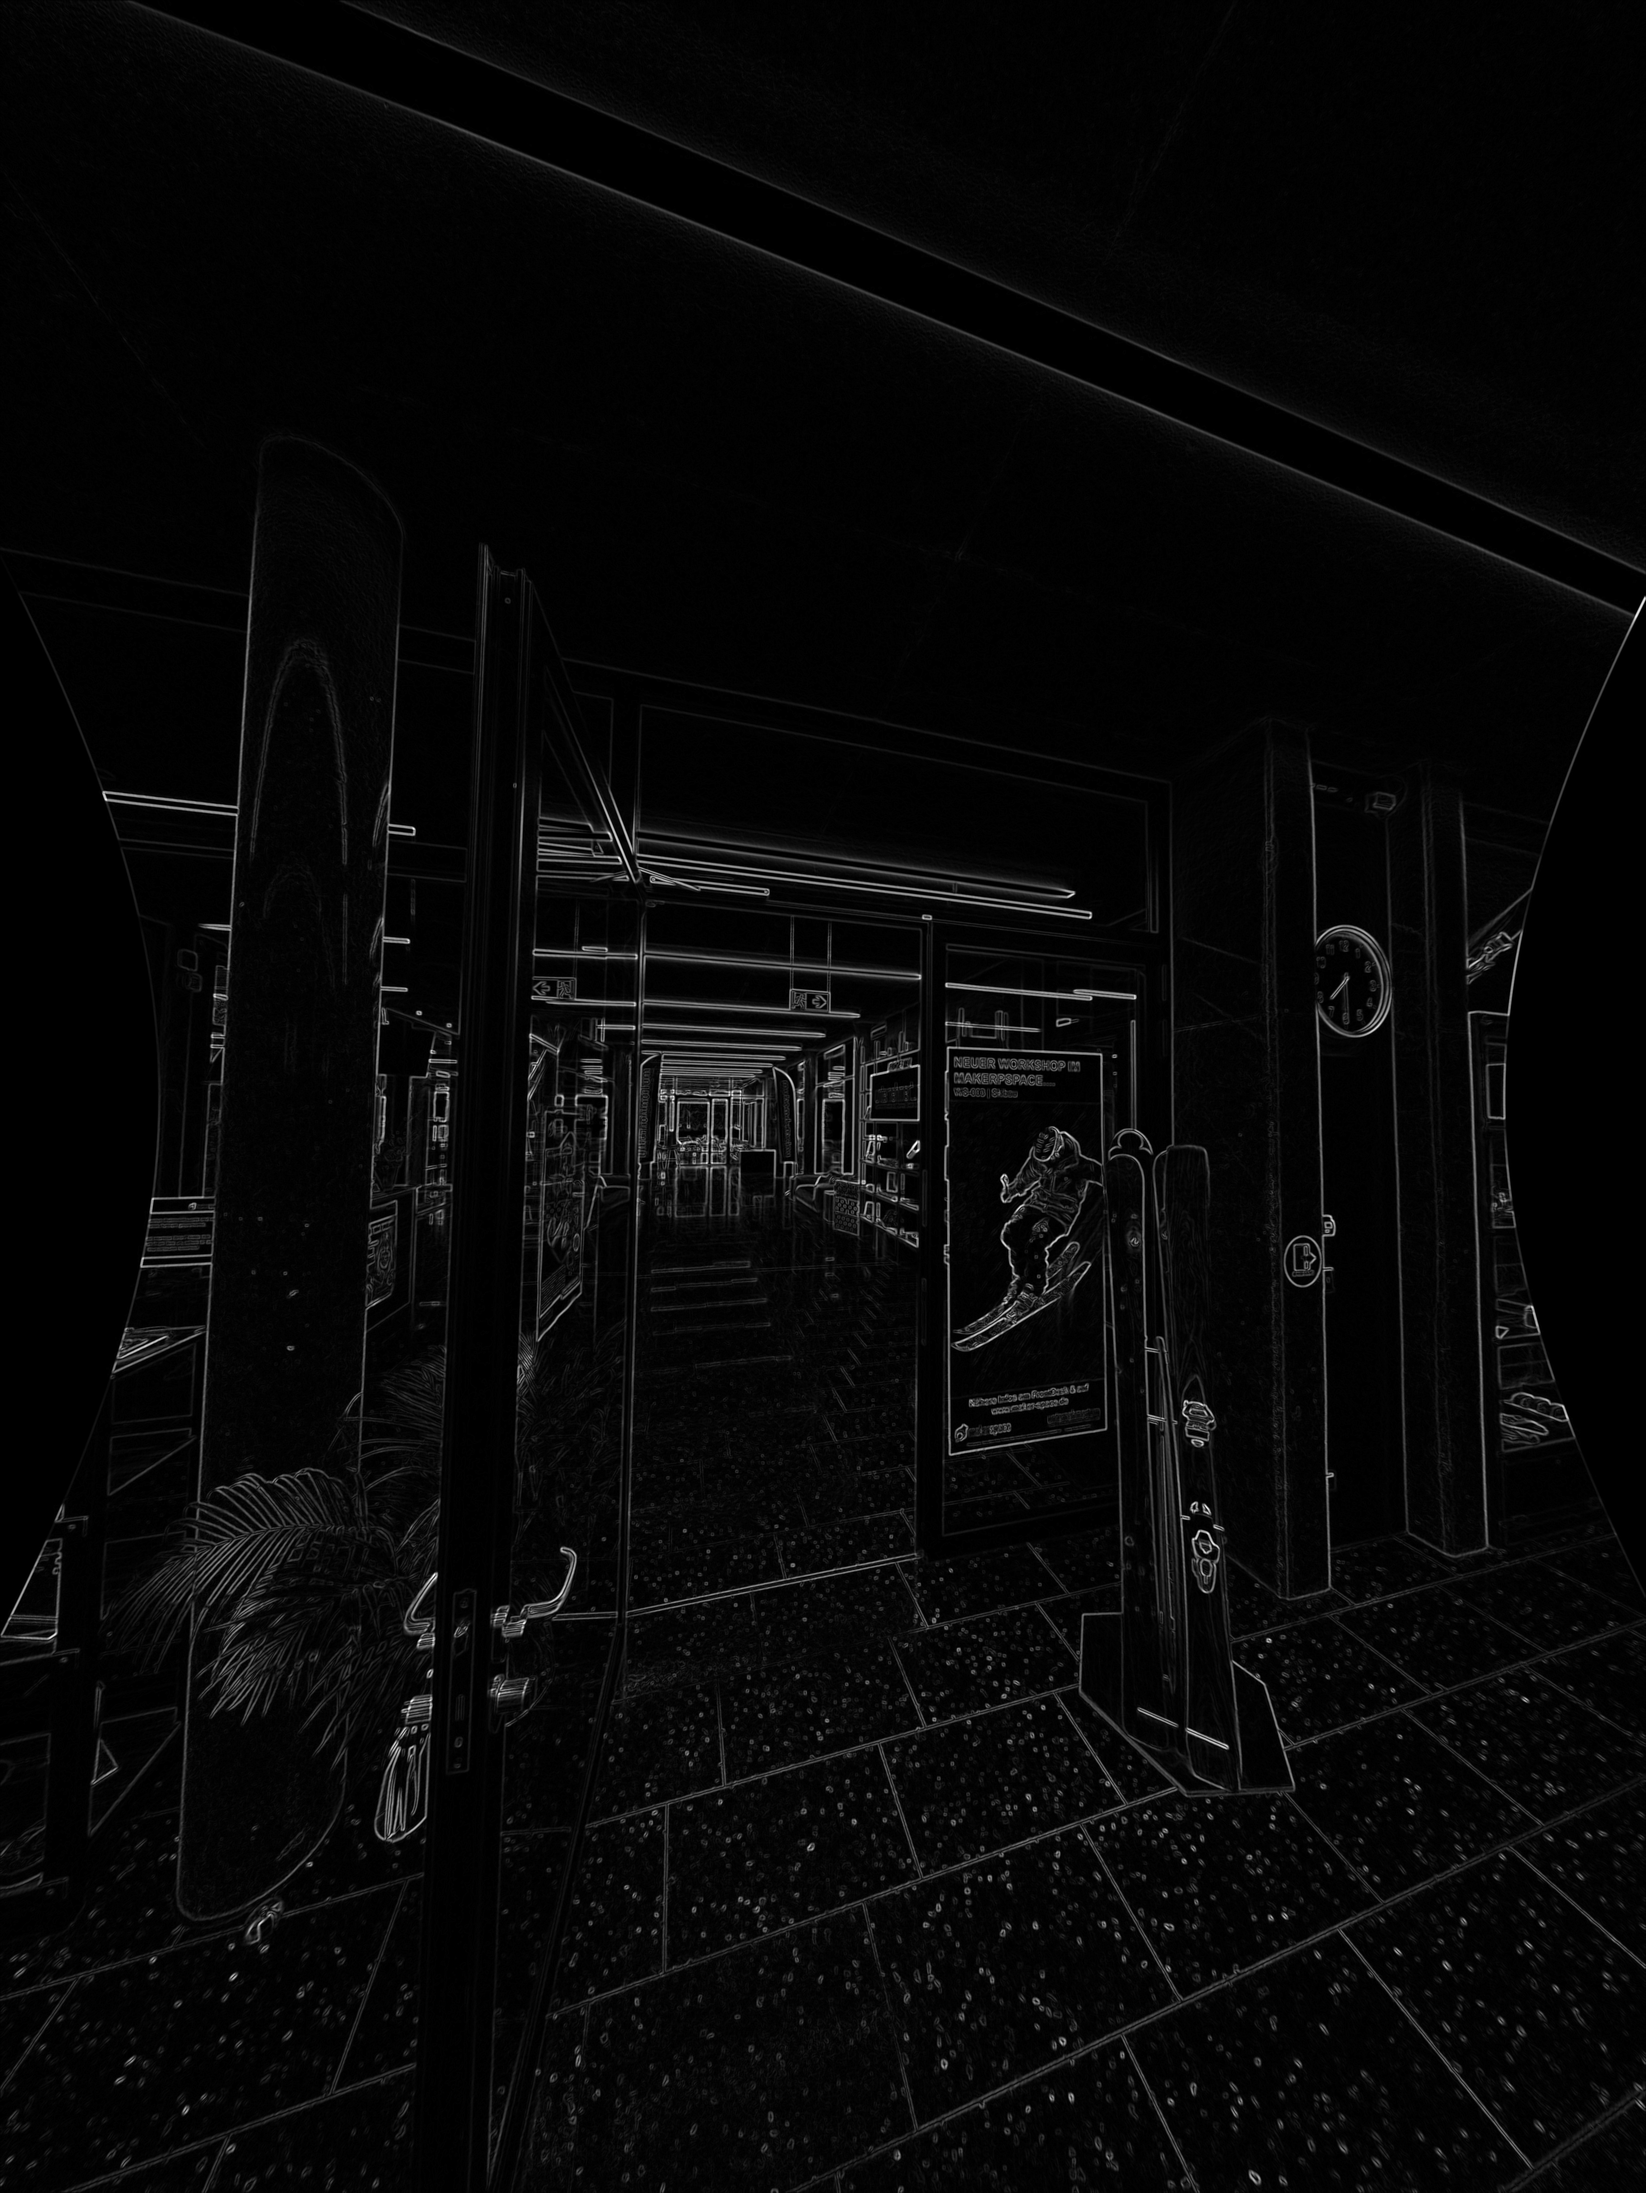
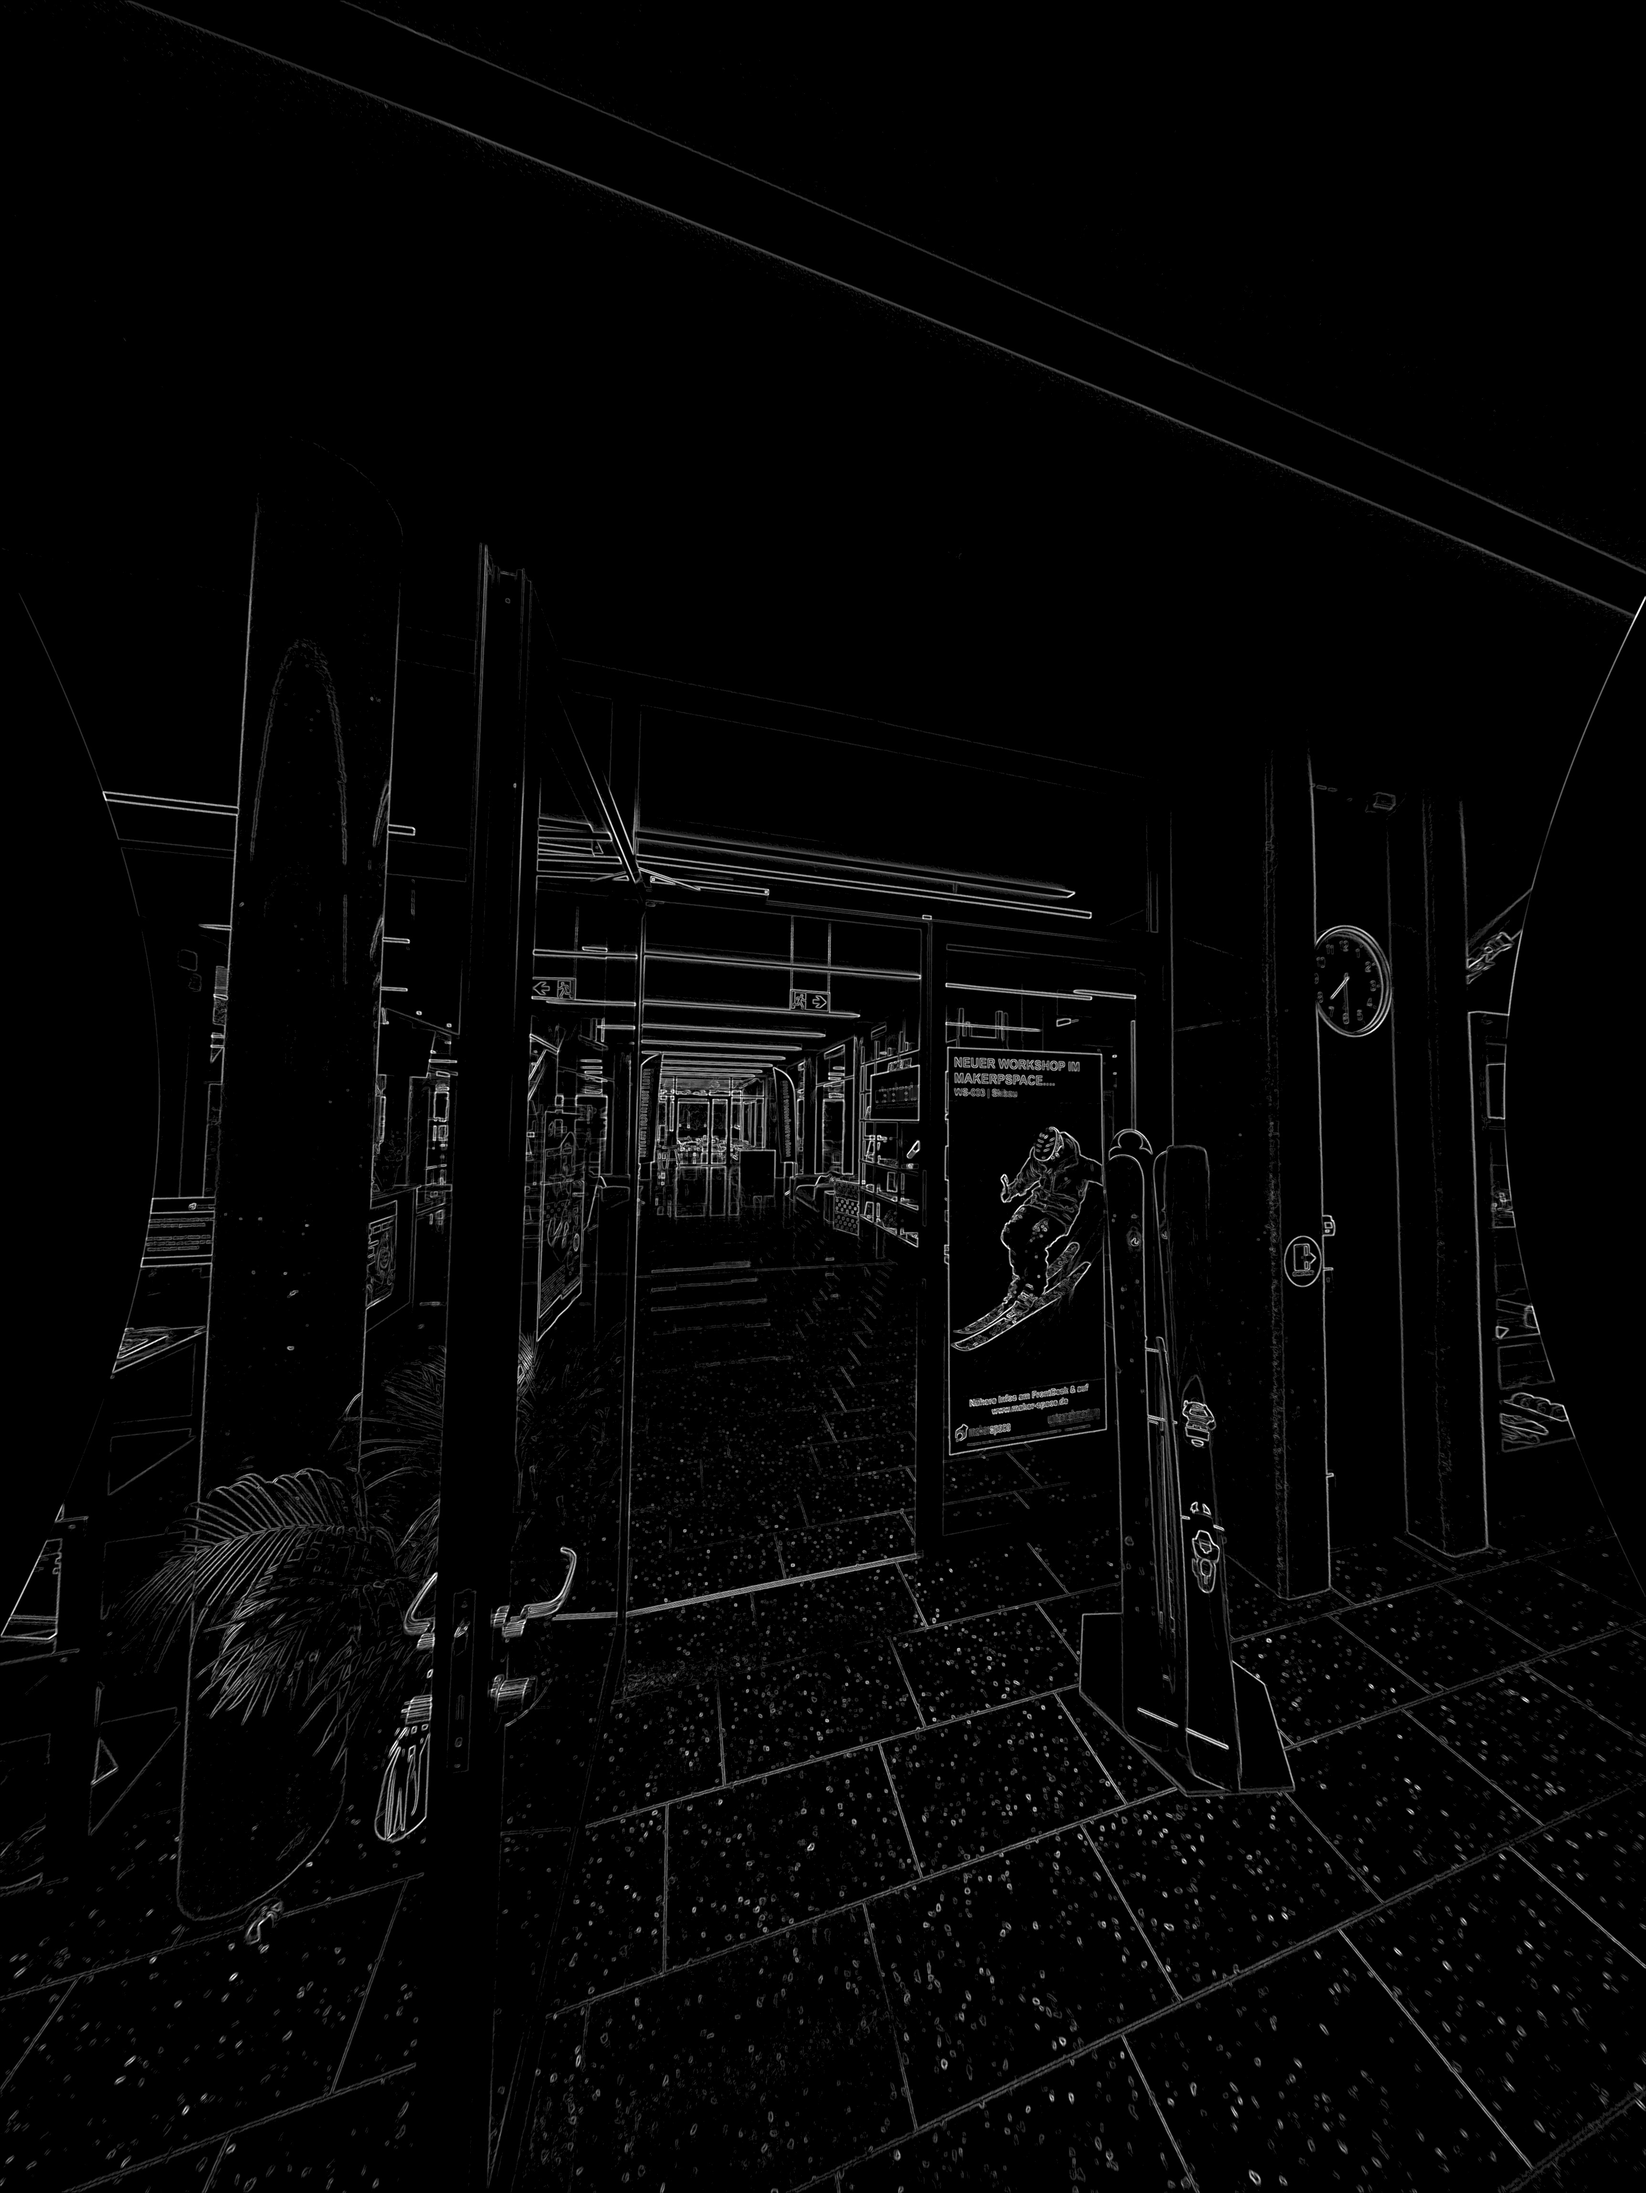
Code Segmentation Sobel / Hough

diff --git a/src/segmentationtexture/Texture.java b/src/segmentationtexture/Texture.java
@@ -1,0 +1,165 @@
+/*
+ * To change this license header, choose License Headers in Project Properties.
+ * To change this template file, choose Tools | Templates
+ * and open the template in the editor.
+ */
+package segmentationtexture;
+
+
+import org.bytedeco.javacpp.opencv_core;
+
+import static org.bytedeco.javacpp.opencv_core.CV_16S;
+import static org.bytedeco.javacpp.opencv_imgproc.Sobel;
+import static org.bytedeco.javacpp.opencv_highgui.waitKey;
+import static org.bytedeco.javacpp.opencv_core.addWeighted;
+import static org.bytedeco.javacpp.opencv_imgproc.cvtColor;
+import static org.bytedeco.javacpp.opencv_imgproc.threshold;
+import static org.bytedeco.javacpp.opencv_core.BORDER_DEFAULT;
+import static org.bytedeco.javacpp.opencv_imgproc.CV_BGR2GRAY;
+import static org.bytedeco.javacpp.opencv_imgproc.GaussianBlur;
+import static org.bytedeco.javacpp.opencv_core.convertScaleAbs;
+import static org.bytedeco.javacpp.opencv_highgui.WINDOW_NORMAL;
+import static org.bytedeco.javacpp.opencv_highgui.imshow;
+import static org.bytedeco.javacpp.opencv_highgui.namedWindow;
+import static org.bytedeco.javacpp.opencv_imgcodecs.imread;
+import static org.bytedeco.javacpp.opencv_imgcodecs.imwrite;
+import static org.bytedeco.javacpp.opencv_imgproc.THRESH_TOZERO;
+
+
+/**
+ *
+ * @author cameron.mourot
+ * @version 1.1
+ */
+public class Texture {
+
+    private final String pathimage;
+
+    public Texture(String pathimage) {
+        this.pathimage = pathimage;
+    }
+
+    /**
+     * Run the algorithm to segment the image. Show the result in a window and
+     * save the texture based segmented image
+     */
+    public void run() {
+
+        opencv_core.Mat src1 = imread(this.pathimage);  // create an image object
+        opencv_core.Mat textr, textr1;  // create a destination image
+        
+        //Call the method to apply Sobel on the image
+        textr = this.SobelFilter(src1);
+        
+        //Call the method to apply Hough transform on the image
+      //  textr1 = this.getHoughPTransform(textr,2,2,2);
+        
+      // Mat texture1 = textr1;
+        
+        //Display the source image  
+        namedWindow("Undistorted image", WINDOW_NORMAL);
+        imshow("Undistorted image", src1); 
+
+        //Display the obtained image with the Sobel filter
+        namedWindow("Sobel Filter - Simple Edge Detector", WINDOW_NORMAL);
+        imshow("Sobel Filter - Simple Edge Detector", textr);
+        
+        //Display the obtained image
+        namedWindow("Hough Transform", WINDOW_NORMAL);
+   //   cvShowImage("Hough Transform", texture1);
+   
+        //Save the obtained image 
+        imwrite("C:\\Users\\cameron.mourot\\Documents\\GitHub\\ProjetStage\\Sobel.jpg", textr);
+
+        waitKey(0);
+    }
+
+    /**
+     *
+     * @param input
+     * @return The image processed by the Sobel filter
+     * @since 1.1 Apply the Sobel filter on the image to detect edges
+     */
+    public opencv_core.Mat SobelFilter(opencv_core.Mat input) {
+
+        int scale = 1;
+        int delta = 0;
+        int ddepth = CV_16S;
+
+        opencv_core.Mat src        = new opencv_core.Mat(input);
+        opencv_core.Mat srcgray    = new opencv_core.Mat();
+        opencv_core.Mat grad_x     = new opencv_core.Mat();
+        opencv_core.Mat grad_y     = new opencv_core.Mat();
+        opencv_core.Mat abs_grad_x = new opencv_core.Mat();
+        opencv_core.Mat abs_grad_y = new opencv_core.Mat();
+        opencv_core.Mat grad       = new opencv_core.Mat();
+        opencv_core.Mat res        = new opencv_core.Mat();
+        
+        // Gaussian blur on the image
+        GaussianBlur(src, src, new opencv_core.Size(3,3), 4 );
+        
+        /// Convert it to gray
+        cvtColor(src, srcgray, CV_BGR2GRAY);
+
+        /// Gradient X - Detect vertical edges
+        Sobel(srcgray, grad_x, ddepth, 1, 0, 3, scale, delta, BORDER_DEFAULT);
+        convertScaleAbs(grad_x, abs_grad_x);
+
+        /// Gradient Y - Detect horizontal edges
+        Sobel(srcgray, grad_y, ddepth, 0, 1, 3, scale, delta, BORDER_DEFAULT);
+        convertScaleAbs(grad_y, abs_grad_y);
+
+        /// Total Gradient (approximate)
+        addWeighted(abs_grad_x, 0.5, abs_grad_y, 0.5, 0, grad);
+        
+        // Convert to threshold zero image
+        threshold(grad, res, 20.0, 255.0, THRESH_TOZERO);
+
+        return res;
+    }
+
+
+    /**
+     *
+     * @param image
+     * @param rho
+     * @param theta
+     * @param threshold
+     * @return 
+     * @since 1.1 Apply Hough Transformation on the image to detect lines 
+     */ 
+  /*  public opencv_core.Mat getHoughPTransform(opencv_core.Mat image, double rho, double theta, int threshold) {
+        opencv_core.Mat result = null;
+        opencv_core.Mat lines = null;
+        Imgproc.HoughLinesP(image, lines, rho, theta, threshold);
+
+        for (int i = 0; lines.cols() >= i; i++) {
+            int[] val = lines.get(0, i);
+            Imgproc.line(result, new Point(val[0], val[1]), new Point(val[2], val[3]), new Scalar(0, 0, 255, 5), 2);
+        }
+        return result;
+    }*/
+    
+    
+    /**
+     *
+     * @param inputImg
+     * @return The segmented image
+     * @since 1.0 Realize the texture based segmentation of an input image
+     */
+    /* public IplImage TextureSegmentation(IplImage inputImg) {
+
+        int width = inputImg.width();
+        int height = inputImg.height();
+        int i, j;
+
+        for (i = 0; i < width; i++) {
+            for (j = 0; j < height; j++) {
+
+            }
+        }
+
+        System.out.println("Largeur : " + width + "\nHauteur : " + height);
+        return null;
+    }*/
+}

diff --git a/test/segmentationtexture/TextureTest.java b/test/segmentationtexture/TextureTest.java
@@ -1,0 +1,70 @@
+/*
+ * To change this license header, choose License Headers in Project Properties.
+ * To change this template file, choose Tools | Templates
+ * and open the template in the editor.
+ */
+package segmentationtexture;
+
+import org.bytedeco.javacpp.opencv_core;
+import static org.bytedeco.javacpp.opencv_imgcodecs.imread;
+import org.junit.After;
+import org.junit.AfterClass;
+import org.junit.Before;
+import org.junit.BeforeClass;
+import org.junit.Test;
+import static org.junit.Assert.*;
+
+/**
+ *
+ * @author cameron.mourot
+ */
+public class TextureTest {
+    
+    public TextureTest() {
+    }
+    
+    @BeforeClass
+    public static void setUpClass() {
+    }
+    
+    @AfterClass
+    public static void tearDownClass() {
+    }
+    
+    @Before
+    public void setUp() {
+    }
+    
+    @After
+    public void tearDown() {
+    }
+
+    /**
+     * Test of run method, of class Texture.
+     */
+    @Test
+    public void testRun() {
+        System.out.println("run");
+        Texture instance = null;
+        instance.run();
+        // TODO review the generated test code and remove the default call to fail.
+        fail("The test case is a prototype.");
+    }
+
+    /**
+     * Test of SobelFilter method, of class Texture.
+     */
+    @Test
+    public void testSobelFilter() {
+        System.out.println("SobelFilter");
+        String test = this.getClass().getResource("undistorted_perspective.jpg").getPath();
+        opencv_core.Mat input = imread(test);
+        Texture instance = new Texture(test);
+        opencv_core.Mat expResult = null;
+        opencv_core.Mat result = instance.SobelFilter(input);
+        assertEquals(expResult, result);
+        // TODO review the generated test code and remove the default call to fail.
+        //fail("The test case is a prototype.");
+    }
+    
+}

diff --git a/src/segmentationtexture/SegmentationTexture.java b/src/segmentationtexture/SegmentationTexture.java
@@ -1,0 +1,24 @@
+/*
+ * To change this license header, choose License Headers in Project Properties.
+ * To change this template file, choose Tools | Templates
+ * and open the template in the editor.
+ */
+package segmentationtexture;
+
+/**
+ *
+ * @author cameron.mourot
+ */
+public class SegmentationTexture {
+
+    /**
+     * @param args the command line arguments
+     */
+    public static void main(String[] args) {
+        // TODO code application logic here
+        String pathimage = "C:\\Users\\cameron.mourot\\Documents\\GitHub\\ProjetStage\\undistorted_perspective.jpg";
+        Texture tex = new Texture(pathimage);
+        tex.run();  
+       
+    }
+}
